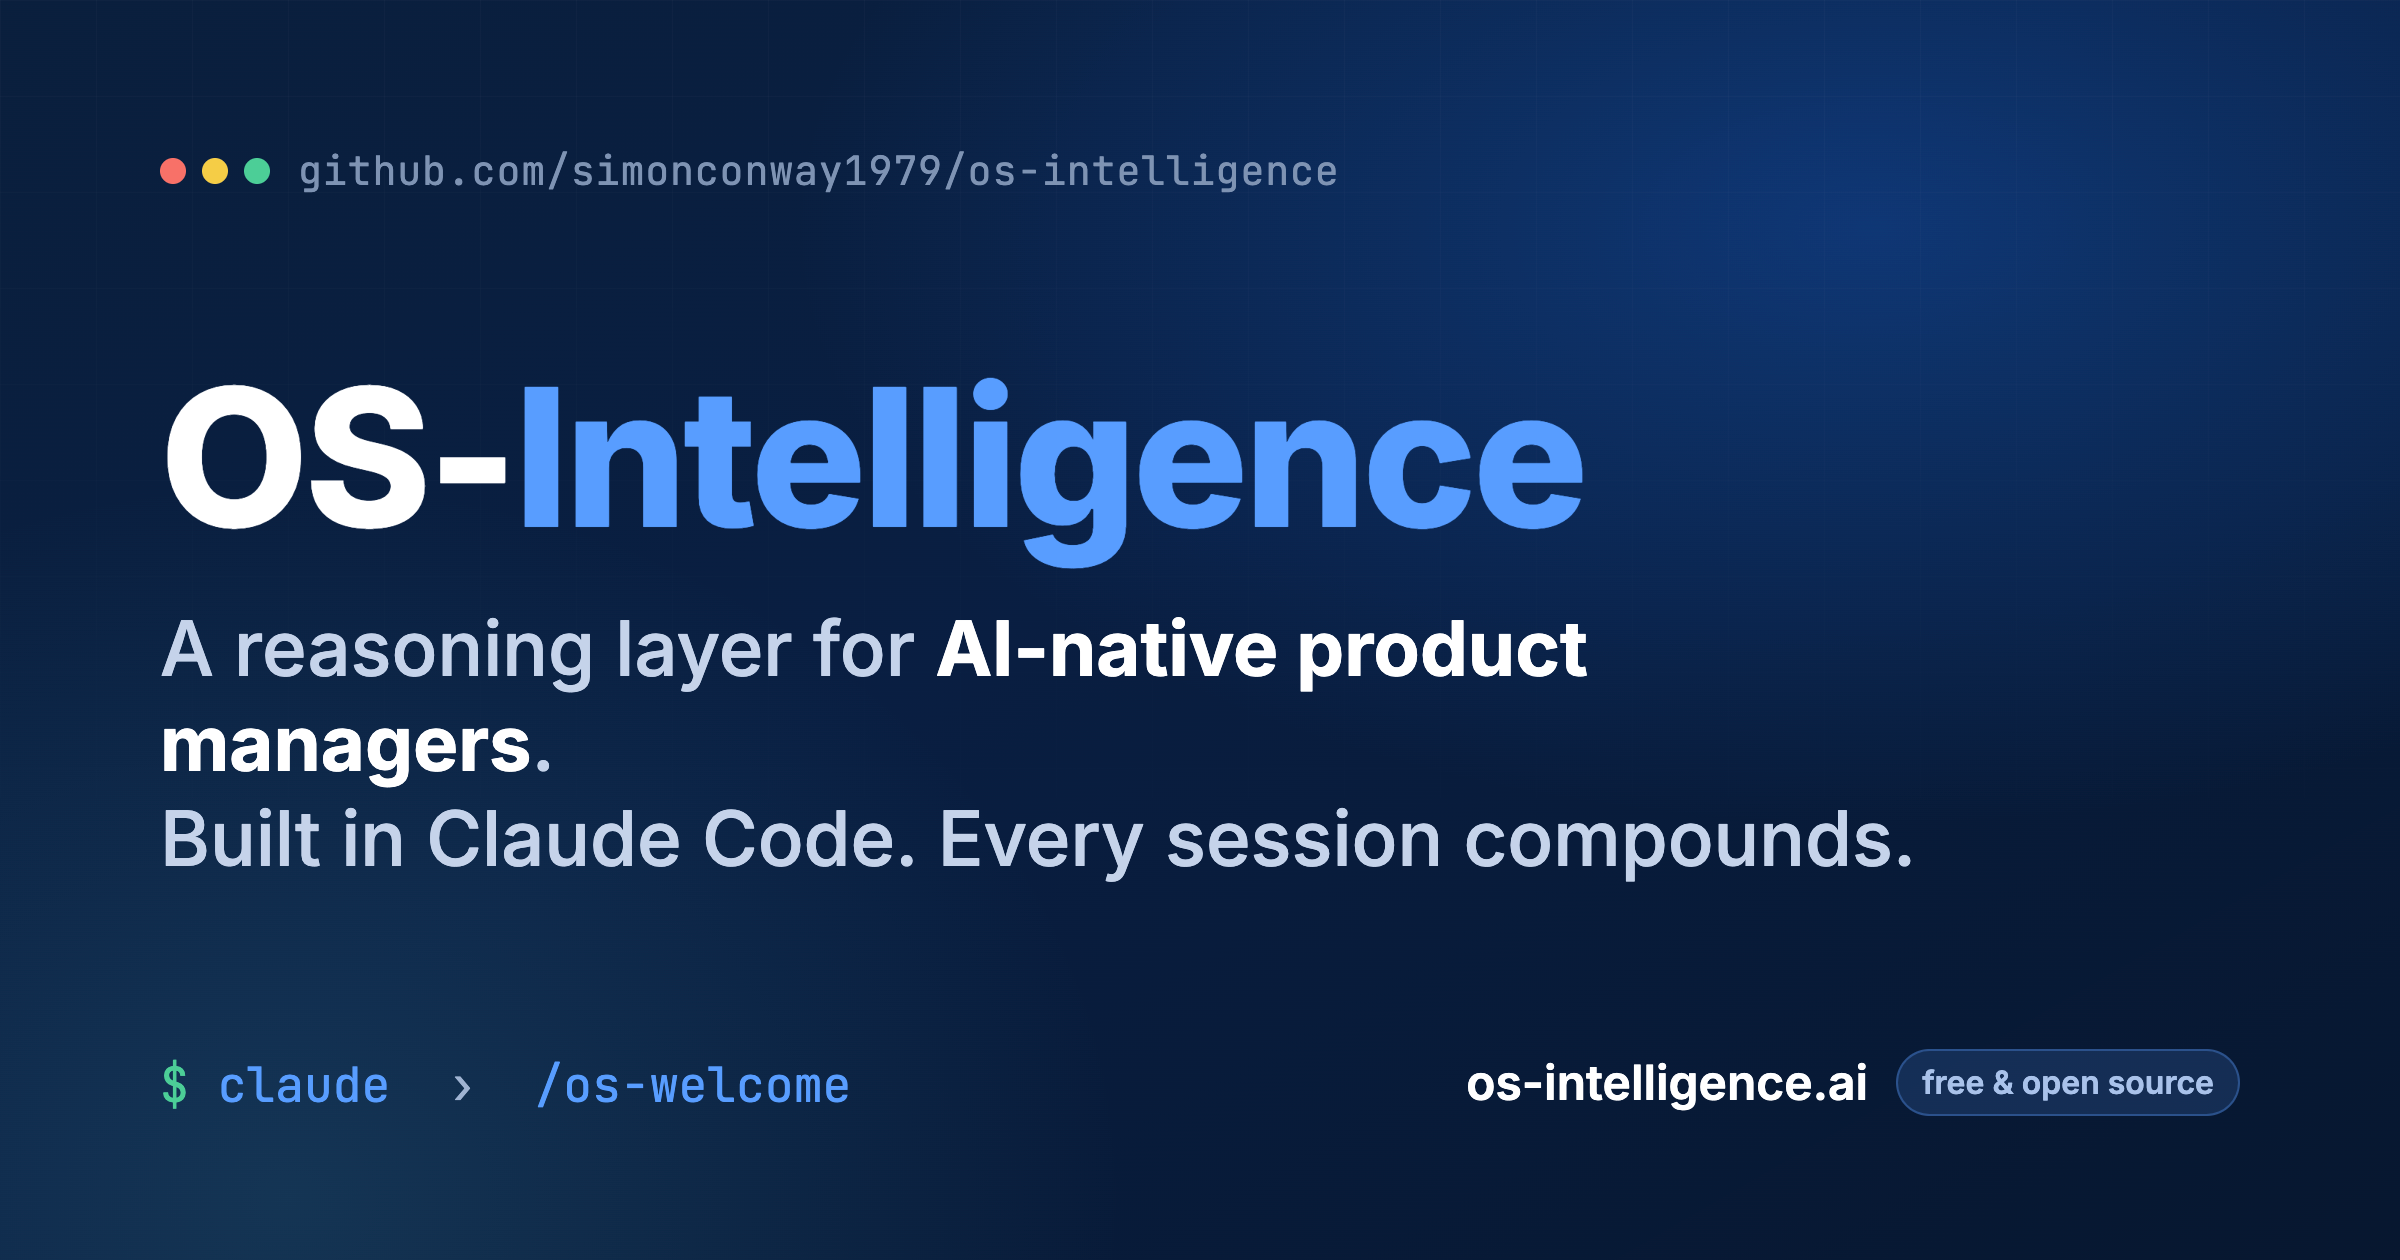
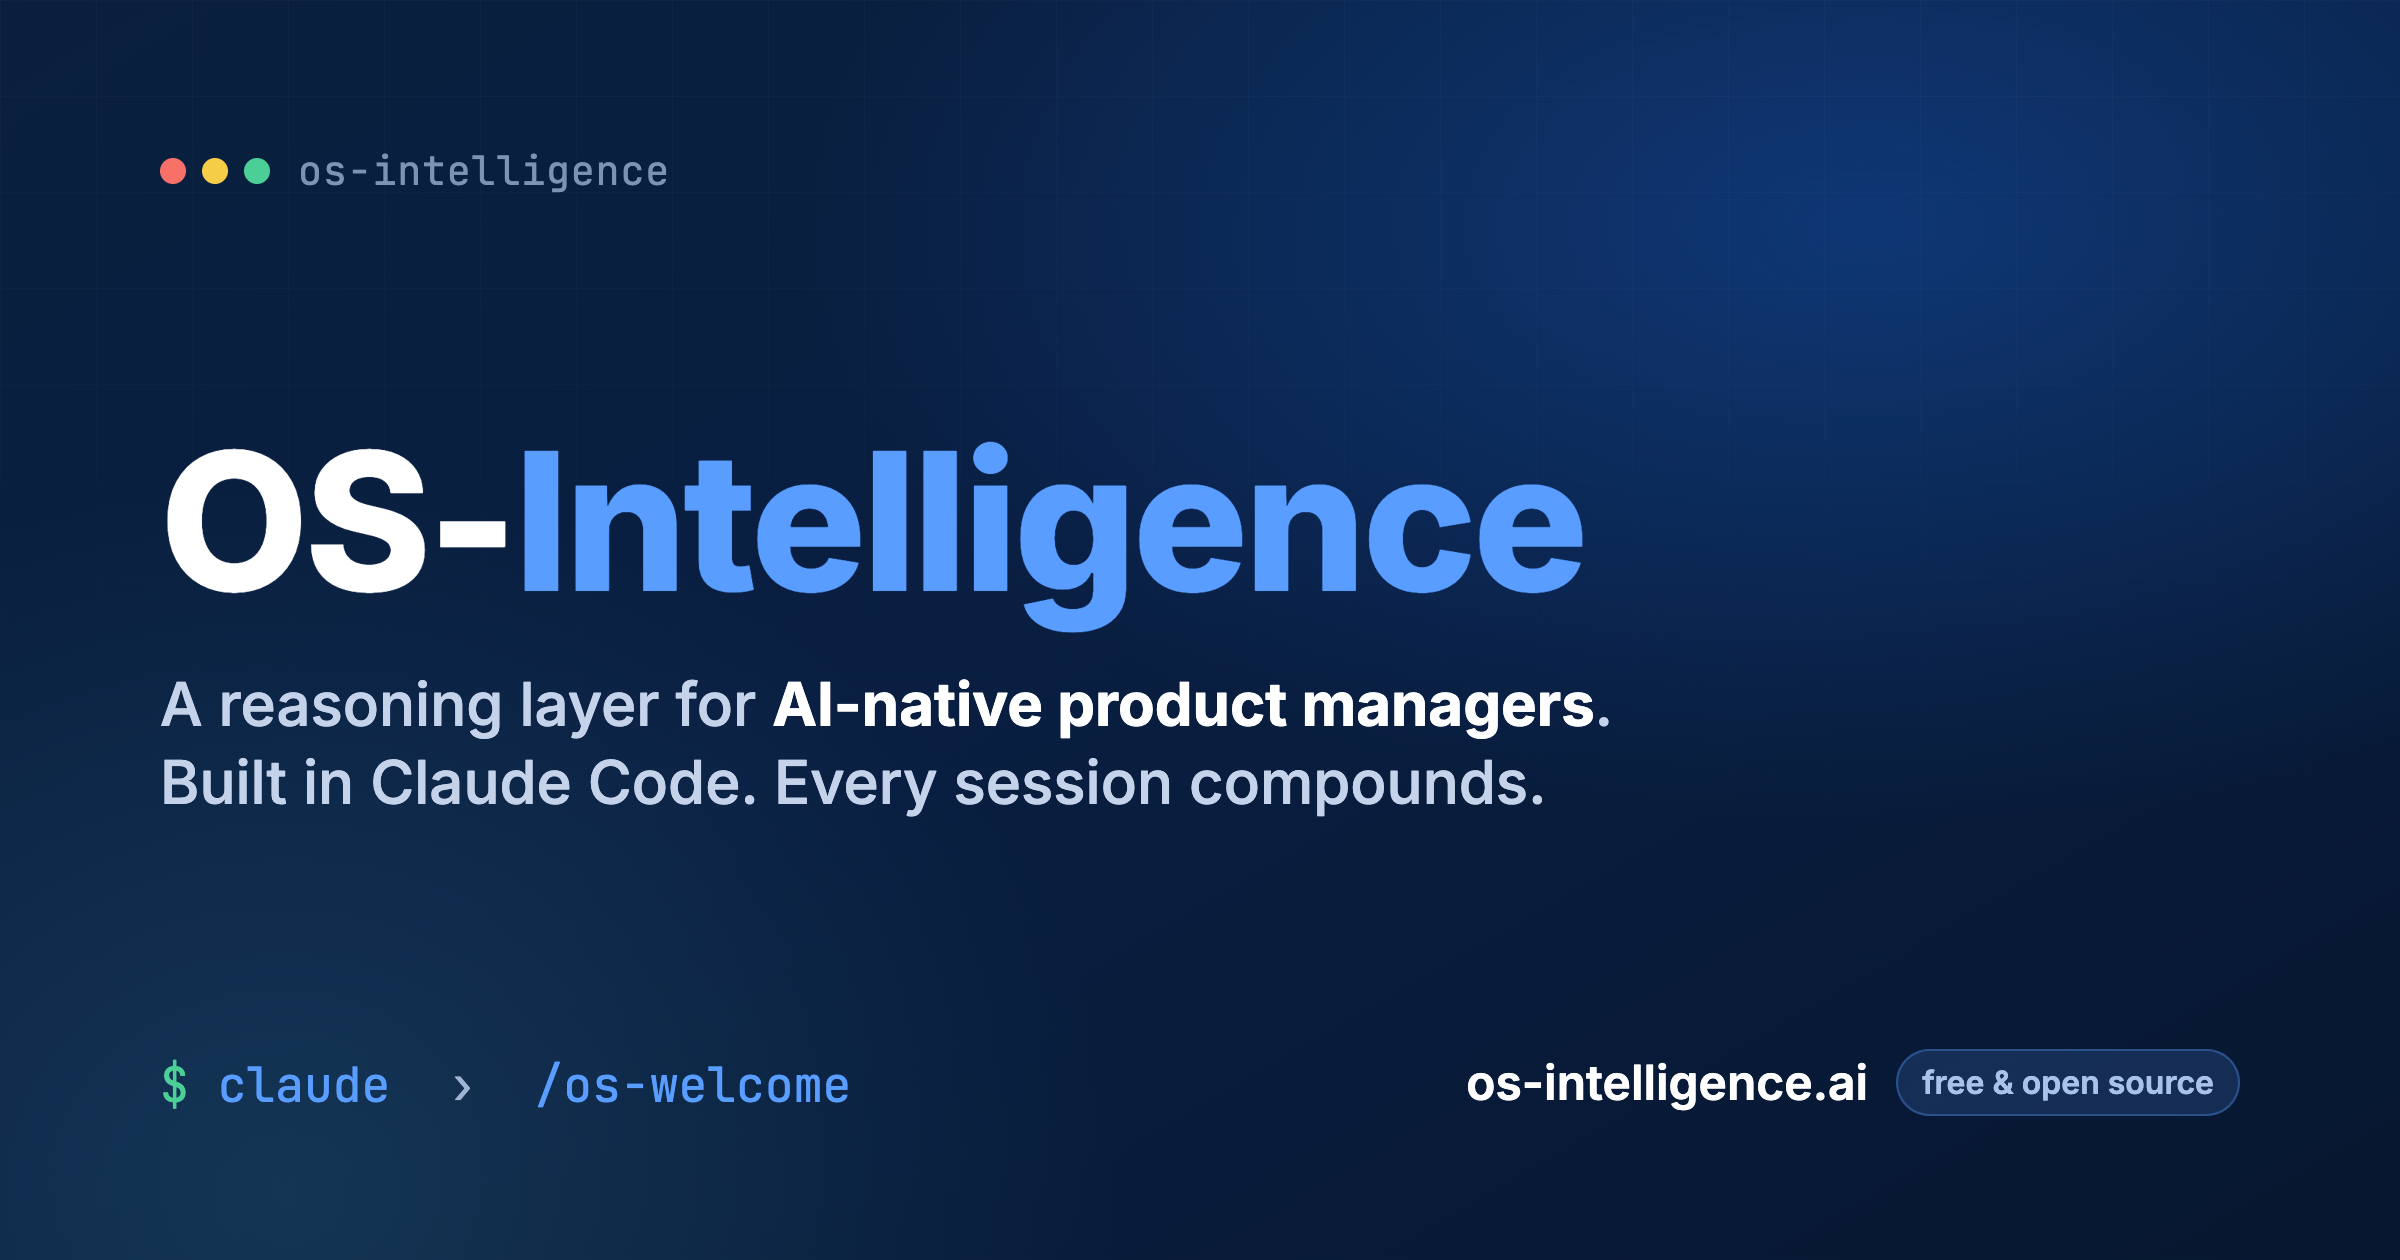
update: tweak social card — one-line tagline, drop github URL, funnel to landing
- og.html: tagline 60px + line 1 pinned to nowrap (was wrapping "managers." awkwardly); top bar github path -> "os-intelligence" window title (card should funnel to os-intelligence.ai for lead capture, not advertise a competing destination)
- og-image.png: regenerated at 2400x1260
- index.html: em-dash -> comma in og:description (house rule)

Changed region(s): [[0.0625, 0.2786, 0.8125, 0.7119], [0.125, 0.1238, 0.5625, 0.1548]]

diff --git a/docs/og.html b/docs/og.html
@@ -53,8 +53,9 @@
   .wordmark{ font-size:192px; font-weight:800; letter-spacing:-.02em; line-height:1 }
   .wordmark .os{ color:#fff }
   .wordmark .intel{ color:#579DFF }
-  .tagline{ font-size:76px; font-weight:500; color:#c5d3ea; line-height:1.25; max-width:1840px }
+  .tagline{ font-size:60px; font-weight:500; color:#c5d3ea; line-height:1.3; max-width:2080px }
   .tagline b{ color:#fff; font-weight:700 }
+  .tagline .t1{ white-space:nowrap }
 
   /* bottom: command line + url */
   .bottom{ display:flex; align-items:flex-end; justify-content:space-between; gap:48px }
@@ -69,12 +70,12 @@
   <div class="card">
     <div class="top">
       <div class="dots"><span></span><span></span><span></span></div>
-      <div class="repo">github.com/simonconway1979/os-intelligence</div>
+      <div class="repo">os-intelligence</div>
     </div>
 
     <div class="mid">
       <div class="wordmark"><span class="os">OS-</span><span class="intel">Intelligence</span></div>
-      <div class="tagline">A reasoning layer for <b>AI-native product managers</b>.<br>Built in Claude Code. Every session compounds.</div>
+      <div class="tagline"><span class="t1">A reasoning layer for <b>AI-native product managers</b>.</span><br>Built in Claude Code. Every session compounds.</div>
     </div>
 
     <div class="bottom">

diff --git a/docs/index.html b/docs/index.html
@@ -10,7 +10,7 @@
 <meta property="og:url" content="https://os-intelligence.ai/">
 <meta property="og:type" content="website">
 <meta property="og:title" content="Using Claude Code but not getting the 10× AI PMs keep posting about? Let's fix that.">
-<meta property="og:description" content="It's the context, not the tool. OS-Intelligence is a free, open-source context system for PMs on Claude Code. Clone it, run /os-welcome — every session compounds.">
+<meta property="og:description" content="It's the context, not the tool. OS-Intelligence is a free, open-source context system for PMs on Claude Code. Clone it, run /os-welcome, and every session compounds.">
 <meta property="og:image" content="https://os-intelligence.ai/og-image.png">
 <meta property="og:image:width" content="2400">
 <meta property="og:image:height" content="1260">